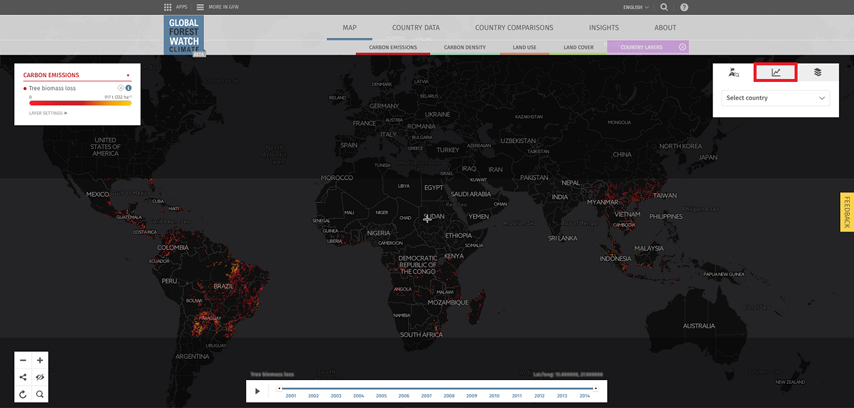
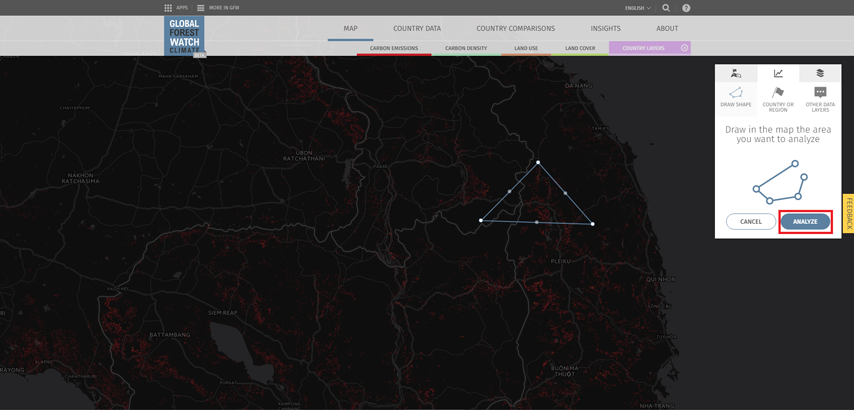
Climate content updated

diff --git a/_posts/01-01-01-analyze-climate-country-or-region.md b/_posts/01-01-01-analyze-climate-country-or-region.md
@@ -1,0 +1,29 @@
+---
+layout: post
+title: Analyze a Country or Region
+published: True
+description: ""
+thumbnail: "/assets/images/climate/analyze-country-or-region/thumbnail.png"
+imagepath: "/assets/images/climate/analyze-country-or-region"
+categories: [analyze data]
+tags: [climate]
+mobile: false
+---
+
+
+<div id="desktopContent" class="content">
+  <p><strong>1.</strong> Navigate to the <a href="/map" target="_blank">GFW Climate Map</a>.</p>
+  <p><strong>2.</strong> Click the analysis icon on the right side of the screen.</p>
+  <p><img src="{{site.baseurl}}{{page.imagepath}}/desktop/Image29.png"/></p>
+  <p><strong>3.</strong> Click “Country or Region” and then select a country and/or region from the drop-down menu.</p>
+  <p><img src="{{site.baseurl}}{{page.imagepath}}/desktop/Image34.png"/></p>
+  <p><strong>4.</strong> Click “Analyze” and your results will appear.</p>
+  <p><img src="{{site.baseurl}}{{page.imagepath}}/desktop/Image35.png"/></p>
+  <p><strong>5.</strong> When you’re finished, click the trash icon to remove your analysis.</p>
+  <p><img src="{{site.baseurl}}{{page.imagepath}}/desktop/Image36.png"/></p>
+</div>
+
+
+
+<div id="mobileContent" class="content">
+</div>

diff --git a/_posts/01-01-01-analyze-climate-a-shape-on-the-map.md b/_posts/01-01-01-analyze-climate-a-shape-on-the-map.md
@@ -1,0 +1,26 @@
+---
+layout: post
+title: Analyze a shape on the map
+published: True
+description: ""
+thumbnail: "/assets/images/climate/analyze-a-shape-on-the-map/thumbnail.png"
+imagepath: "/assets/images/climate/analyze-a-shape-on-the-map"
+categories: [analyze data]
+tags: [climate]
+mobile: false
+---
+
+
+<div id="desktopContent" class="content">
+  <p><strong>1.</strong> Navigate to the <a href="/map" target="_blank">GFW Climate Map</a>.</p>
+  <p><strong>2.</strong> Turn on the Tree Biomass Loss layer and another data set from the Land Use or Land Cover drop menus. Note: Intact Forest Landscapes data does not work with the analysis function.</p>
+  <p><strong>3.</strong> Select a polygon on the map, and then click “Analyze” in the pop up window. Your results will appear in the box on the right.</p>
+  <p><img src="{{site.baseurl}}{{page.imagepath}}/desktop/Image39.png"/></p>
+  <p><strong>4.</strong> When you’re finished, click the trash icon to remove your analysis.</p>
+  <p><img src="{{site.baseurl}}{{page.imagepath}}/desktop/Image40.png"/></p>
+</div>
+
+
+
+<div id="mobileContent" class="content">
+</div>

diff --git a/_posts/01-01-01-analyze-climate-a-user-drawn-polygon.md b/_posts/01-01-01-analyze-climate-a-user-drawn-polygon.md
@@ -19,9 +19,9 @@ mobile: false
   <p><img src="{{site.baseurl}}{{page.imagepath}}/desktop/Image30.png"/></p>
   <p><strong>4.</strong> Draw any shape on the map you’d like. Note: You need to make an enclosed polygon to analyze an area. Once you’ve drawn your polygon, click “Analyze.”</p>
   <p><img src="{{site.baseurl}}{{page.imagepath}}/desktop/Image31.png"/></p>
-  <p><strong>5.</strong>The results will appear in the box on the right. Note: If you draw a large polygon it might take more time to complete the analysis.</p>
+  <p><strong>5.</strong> The results will appear in the box on the right. Note: If you draw a large polygon it might take more time to complete the analysis.</p>
   <p><img src="{{site.baseurl}}{{page.imagepath}}/desktop/Image32.png"/></p>
-  <p><strong>6.</strong>When you’re finished, click the trash icon to remove your analysis.</p>
+  <p><strong>6.</strong> When you’re finished, click the trash icon to remove your analysis.</p>
   <p><img src="{{site.baseurl}}{{page.imagepath}}/desktop/Image33.png"/></p>
 </div>
 
